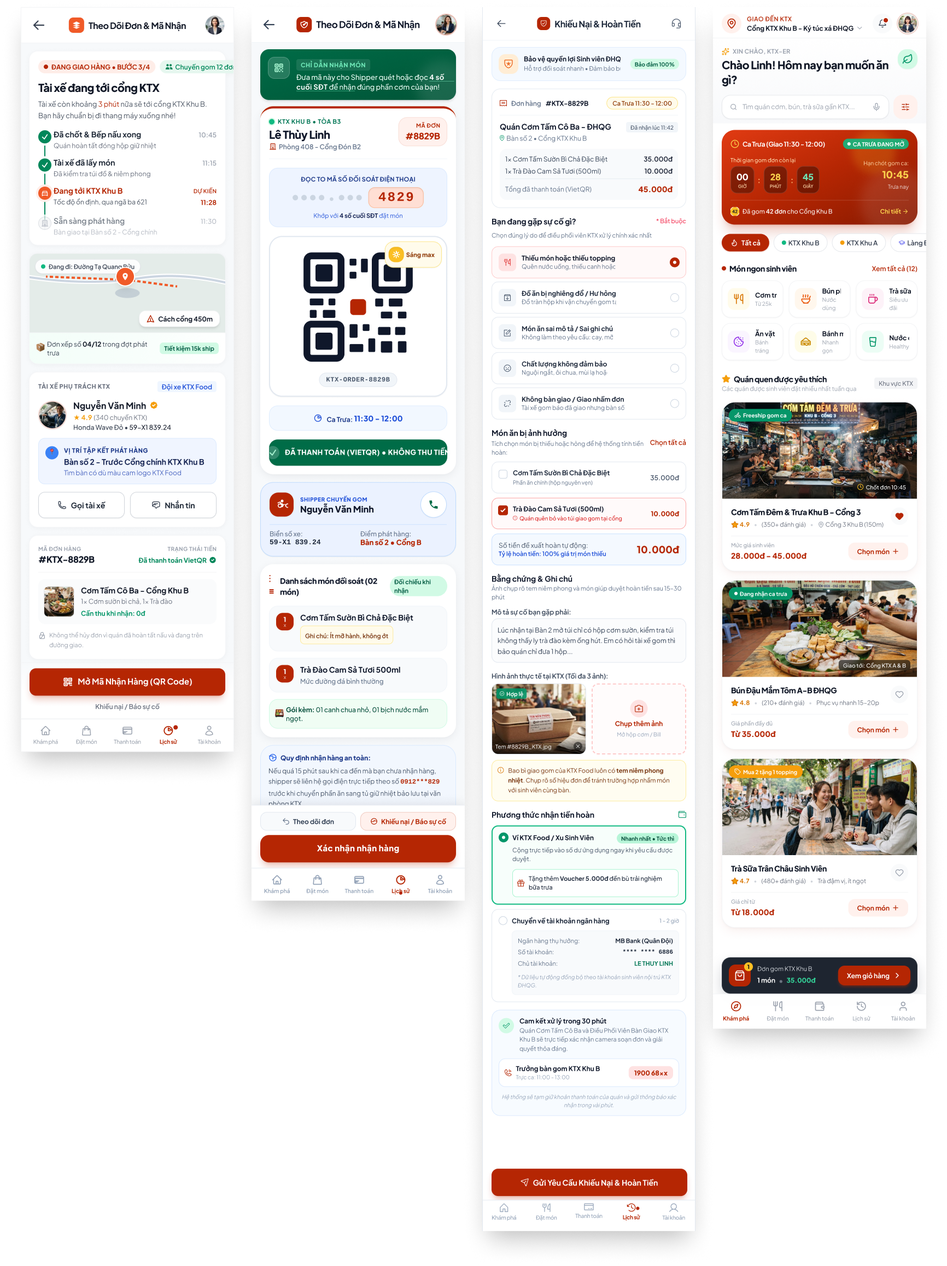
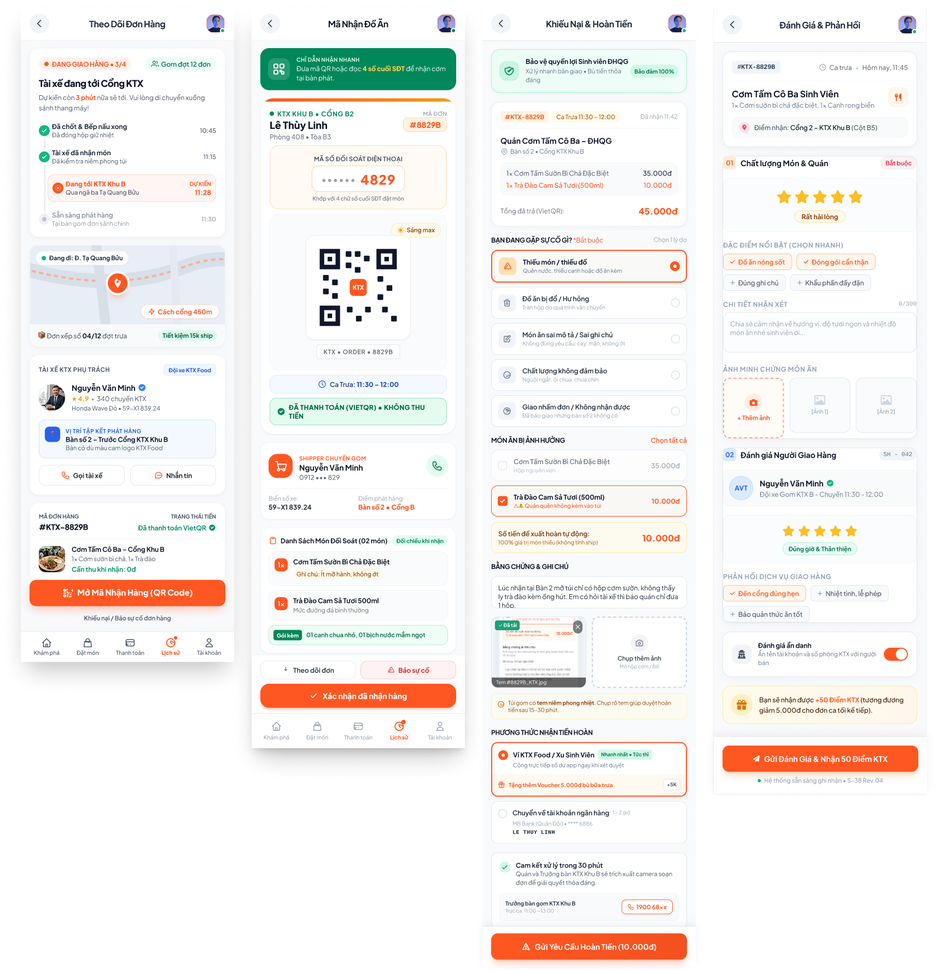
sửa final ui

diff --git a/ai/Vinh/ai-design-log.md b/ai/Vinh/ai-design-log.md
@@ -7,7 +7,7 @@
 > **Người thực hiện:** Thành viên 4 – Quách Ngọc Vinh (MSSV: SE194159)  
 > **Công cụ AI:** Google Stitch (sinh và tinh chỉnh màn hình) + Claude / ChatGPT (phản biện theo Heuristics & WCAG)  
 > **Hệ thống:** Giao nhận đồ ăn sinh viên tại Ký túc xá Khu B (KTX Food Delivery System)  
-> **Tiêu chuẩn áp dụng:** 10 Usability Heuristics của Jakob Nielsen, WCAG 2.1 (AA/AAA), Mobile Ergonomics (Thumb Zone), Design System chung của nhóm (`design1.png`, `design2.png`)  
+> **Tiêu chuẩn áp dụng:** 10 Usability Heuristics của Jakob Nielsen, WCAG 2.1 (AA/AAA), Mobile Ergonomics (Thumb Zone), Design System chung của nhóm  
 > **Thư mục ảnh minh chứng:** `assests/stitch/Vinh/`
 
 ---
@@ -16,8 +16,6 @@
 
 | Nhóm | Tên file | Nội dung thực tế trong ảnh |
 | :---: | :--- | :--- |
-| Design System | `design1.png` | Thang chữ (Typography): font Inter, 4 kiểu Heading 1 / Heading 2 / Body / Caption. |
-| Design System | `design2.png` | Bảng màu (Color Palette Tokens) và khoảng cách (Spacing Guide 8 / 16 / 24dp). |
 | Vòng 1 | `v1_before-1.png` | Bản gốc: sơ đồ User Flow đặt món & thanh toán + 5 màn (Trang chủ, Chi tiết quán, Tùy biến món, Thanh toán gom đơn, Chuyển khoản VietQR). |
 | Vòng 1 | `v1_after-1.png` | Bản chốt của 5 màn trên (màn 1 → 5). |
 | Vòng 1 | `v1_before-2.png` | Bản gốc: sơ đồ User Flow nhận hàng + 4 màn (Theo dõi đơn, Mã nhận QR, Khiếu nại & Hoàn tiền, quay về Trang chủ). |
@@ -35,7 +33,7 @@
 
 ## 0.1. QUY TẮC THIẾT KẾ CHUNG (DESIGN SYSTEM) ÁP DỤNG CHO CÁC BẢN CHỐT
 
-### Typography – font Inter (`design1.png`)
+### Typography – font Inter
 
 | Kiểu chữ | Độ đậm | Cỡ chữ | Chiều cao dòng | Dùng cho |
 | :--- | :--- | :---: | :---: | :--- |
@@ -46,7 +44,7 @@
 
 > Body 16px / dòng 24px, cao hơn ngưỡng tối thiểu 14sp để đọc tốt trên di động.
 
-### Color Palette Tokens (`design2.png`)
+### Color Palette Tokens
 
 | Token | Mã màu | Vai trò trong bản chốt |
 | :--- | :---: | :--- |
@@ -56,13 +54,21 @@
 | Text Secondary | `#757575` | Mô tả, chú thích, thông tin phụ |
 | Error Red | `#F44336` | Trạng thái lỗi, cảnh báo, nút khiếu nại |
 
-### Spacing Guide Blocks (`design2.png`)
+### Spacing Guide Blocks
 
 | Token | Giá trị | Dùng cho |
 | :--- | :---: | :--- |
 | Small | 8dp | Khoảng cách giữa icon và nhãn, giữa các chip |
 | Medium | 16dp | Lề trong của thẻ, khoảng cách giữa các nút cạnh nhau |
 | Large | 24dp | Khoảng cách giữa các khối nội dung lớn |
+
+### Header (App Bar) dùng chung
+
+| Loại màn | Cấu trúc header | Áp dụng cho |
+| :--- | :--- | :--- |
+| Màn duyệt món | Dòng "GIAO ĐẾN – Cổng KTX Khu B - ĐHQG", lời chào 1 dòng, ô tìm kiếm | Trang chủ, Chi tiết quán |
+| Màn chức năng | Nút quay lại hình tròn bên trái · tiêu đề căn giữa · avatar bên phải | Thanh toán gom đơn (kèm icon cửa hàng cạnh tiêu đề), Theo dõi đơn, Mã nhận, Khiếu nại, Đánh giá, Lịch sử, Empty / Error State |
+| Màn dạng modal | Nút quay lại bên trái · tiêu đề căn giữa · nút đóng "X" bên phải | Tùy biến món, Thanh toán online |
 
 ---
 
@@ -104,7 +110,7 @@ Vòng 1 được áp dụng trên 11 màn hình, chia thành 3 cặp ảnh theo 
 
 ## 1.3. Phản hồi của AI & Chi tiết tối ưu hóa 11 màn hình chuẩn
 
-> **Áp dụng chung cho cả 11 màn:** nút chính nền Primary Orange `#FF5722` chữ trắng, nút phụ dạng viền; tiêu đề `#111111`, chữ phụ `#757575`; font Inter theo thang 24 / 20 / 16 / 14px; lề thẻ 16dp.
+> **Áp dụng chung cho cả 11 màn:** nút chính nền Primary Orange `#FF5722` chữ trắng, nút phụ dạng viền; tiêu đề `#111111`, chữ phụ `#757575`; font Inter theo thang 24 / 20 / 16 / 14px; lề thẻ 16dp; header theo 3 mẫu dùng chung ở mục 0.1.
 
 ### Màn 1. Trang Chủ Đặt Món & Ca Gom KTX (Bản Chốt Chuẩn)
 
@@ -112,9 +118,10 @@ Vòng 1 được áp dụng trên 11 màn hình, chia thành 3 cặp ảnh theo 
 
 **Tối ưu nổi bật:**
 
+- **Header gọn:** "GIAO ĐẾN – Cổng KTX Khu B - ĐHQG" và lời chào rút còn 1 dòng "Chào Linh! Trưa nay ăn gì?".
 - **Thanh điều hướng & Giỏ hàng nổi:** Giữ trọn vẹn thanh Bottom Navigation 5 tab chuẩn (Khám phá, Đặt món, Thanh toán, Lịch sử, Tài khoản) cùng thanh giỏ hàng nổi "Đơn gom KTX Khu B • 1 món • 35.000đ" với nút "Xem giỏ hàng" màu Primary Orange #FF5722.
-- **Banner đếm ngược ca trưa:** Banner cam đếm ngược chốt đơn ca trưa lớn, rõ ràng (00:28:45), nhãn "CA TRƯA ĐANG MỞ" nổi bật.
-- **Xử lý Text Wrapping:** Khung chữ tiêu đề quán, khoảng cách (150m), tag freeship và khoảng giá (28.000đ - 45.000đ) dùng container co giãn tự nhiên (auto-width), loại bỏ lỗi rớt chữ cụt lủn.
+- **Banner đếm ngược ca trưa:** Banner cam "Ca Trưa (11:30 - 12:00) • ĐANG MỞ", đếm ngược 00:28:45, "Chốt lúc 10:45" và "Đã gom 42 đơn Khu B".
+- **Xử lý Text Wrapping:** Tên quán rút gọn ("Cơm Tấm Sườn Bì Khu B - Cổng 3", "Bún Đậu Mắm Tôm Cô Bông KTX", "Trà Sữa Đậm Vị KTX Khu B"), khoảng cách "Cổng 3 KTX (150m)" và khoảng giá (28.000đ - 45.000đ) nằm trọn 1 dòng.
 
 ### Màn 2. Chi Tiết Quán & Thực Đơn Cơm Tấm (Bản Chốt Chuẩn)
 
@@ -122,8 +129,9 @@ Vòng 1 được áp dụng trên 11 màn hình, chia thành 3 cặp ảnh theo 
 
 **Tối ưu nổi bật:**
 
-- **Header quán Cơm Tấm Cô Ba:** Đầy đủ thông tin định danh: tích xác thực, khoảng cách 600m, đánh giá 4.9 sao, thông báo "Bảng tin Cô Ba hôm nay" và đồng hồ đếm ngược chốt đơn 24:59.
-- **Phân loại tab súc tích:** Cấu trúc 3 tab tinh gọn: Món Bán Chạy 🔥 (tab đang chọn nền cam), Cơm Tấm, Món Thêm / Topping.
+- **Header đồng bộ với Trang chủ:** Giữ dòng "GIAO ĐẾN", lời chào và ô tìm kiếm để sinh viên không mất ngữ cảnh khi đi từ Trang chủ vào quán.
+- **Thông tin quán tinh gọn:** Ảnh bìa gắn nhãn "KTX Khu B (Cổng 2)" và "Cách 600m"; dưới là "Cơm Tấm Cô Ba" (tích xác thực), một hàng "★ 4.9 · Freeship · 11:30", khối đếm ngược "24:59 CHỐT ĐƠN" và "BẢNG TIN CÔ BA HÔM NAY – Tặng trà đá cho nhóm từ 3 phần".
+- **Thực đơn ít chữ:** Mỗi món chỉ giữ ảnh, tên và giá (bỏ đoạn mô tả dài); tab Món Bán Chạy / Cơm Tấm / Món Thêm cuộn ngang.
 - **Thanh ghim đáy (Sticky Bar):** Cố định hiển thị "Chốt đơn • 70.000đ" với vùng bấm đạt chuẩn $\ge 48\text{dp}$, phía dưới bổ sung lại Bottom Navigation (bản gốc không có).
 
 ### Màn 3. Tùy Biến Món Ăn (Bản Chốt Chuẩn)
@@ -132,7 +140,8 @@ Vòng 1 được áp dụng trên 11 màn hình, chia thành 3 cặp ảnh theo 
 
 **Tối ưu nổi bật:**
 
-- **Compact Vertical Layout:** Phân chia 5 khối logic gọn gàng (Kích cỡ / Phần ăn, Khẩu vị & Mỡ hành, Topping thêm, Độ cay & Nước mắm, Ghi chú), mỗi khối có vạch nhấn cam ở tiêu đề và nhãn "Bắt buộc" / "Tùy chọn".
+- **Header dạng modal:** Nút quay lại, tiêu đề "Tùy Biến Món Ăn" căn giữa và nút đóng "X".
+- **Compact Vertical Layout:** Phân chia 5 khối logic gọn gàng (Kích cỡ / Phần ăn, Khẩu vị & Mỡ hành, Topping thêm, Độ cay & Nước mắm, Ghi chú), mỗi khối có vạch nhấn cam ở tiêu đề và nhãn "Bắt buộc • Chọn 1" / "Tùy chọn • Tối đa 5".
 - **Nút CTA ghim đáy:** Kết hợp bộ đếm số lượng (- 1 +) cùng nút "Thêm vào giỏ • 46.000đ" nền #FF5722, chữ trắng in đậm trọn vẹn trên 1 dòng (bản gốc nhãn bị rớt thành 2 dòng).
 
 ### Màn 4. Thanh Toán Gom Đơn & Điểm Nhận KTX (Bản Chốt Chuẩn)
@@ -141,6 +150,7 @@ Vòng 1 được áp dụng trên 11 màn hình, chia thành 3 cặp ảnh theo 
 
 **Tối ưu nổi bật:**
 
+- **Header & nhắc giờ chốt:** Header chức năng "Thanh Toán Gom Đơn", ngay dưới là dải "Đợt gom Ca Trưa sắp đóng – 10:45".
 - **Cấu trúc 6 bước mạch lạc:** Điểm nhận cố định tại Cổng Khu B, Khung giờ ca trưa, Tóm tắt món, Mã giảm giá SINHVIENKTX, Phương thức VietQR và Bảng chi tiết thanh toán; mỗi bước đánh số trong ô cam.
 - **Nút CTA chính ghim đáy:** "Đặt đơn nhận tại Cổng KTX Khu B (45.000đ)" cao 52dp, nền #FF5722.
 
@@ -150,6 +160,7 @@ Vòng 1 được áp dụng trên 11 màn hình, chia thành 3 cặp ảnh theo 
 
 **Tối ưu nổi bật:**
 
+- **Header dạng modal & giữ chỗ:** Tiêu đề "Thanh toán online" có nút đóng "X"; thẻ "GIỮ CHỖ ĐƠN GOM CA TRƯA" đếm ngược 09:57.
 - **Khối mã VietQR Napas247:** Khung QR tương phản cao kèm 2 nút phụ dạng viền "Lưu ảnh QR" và "Mở App Bank", vùng chạm $\ge 48\times 48\text{dp}$, cách nhau $16\text{dp}$ chống bấm nhầm khi đi bộ.
 - **Khối thông tin chuyển khoản:** 3 nút "Sao chép" 1 chạm độc lập (STK, Số tiền 45.000 đ, Nội dung bắt buộc KTX8829B LE THUY LINH), thay cho các nhãn "content_copy" bị lỗi hiển thị ở bản gốc.
 - **Nút hành động chính ghim đáy:** "Tôi đã hoàn tất chuyển khoản" nền #FF5722.
@@ -160,21 +171,23 @@ Vòng 1 được áp dụng trên 11 màn hình, chia thành 3 cặp ảnh theo 
 
 **Tối ưu nổi bật:**
 
-- **Tiến trình giao hàng 4 bước:** Đã chốt & Bếp nấu xong $\rightarrow$ Tài xế đã lấy món $\rightarrow$ Đang tới KTX Khu B (bước hiện tại tô cam) $\rightarrow$ Sẵn sàng phát hàng, cùng thông tin tài xế Nguyễn Văn Minh (Honda Wave Đỏ • 59-X1 839.24) hiển thị thẳng hàng, không bị ngắt dòng.
-- **Nút CTA ghim đáy:** "Mở Mã Nhận Hàng (QR Code)" nền #FF5722, cao 50dp ($\ge 48\text{dp}$), chữ nằm trọn 1 dòng.
+- **Header chức năng:** Tiêu đề "Theo Dõi Đơn Hàng" căn giữa; thẻ đầu "ĐANG GIAO HÀNG • 3/4 – Gom đợt 12 đơn – Tài xế đang tới Cổng KTX".
+- **Tiến trình giao hàng 4 bước:** Đã chốt & Bếp nấu xong $\rightarrow$ Tài xế đã nhận món $\rightarrow$ Đang tới KTX Khu B (bước hiện tại tô cam, dự kiến 11:28) $\rightarrow$ Sẵn sàng phát hàng, cùng thông tin tài xế Nguyễn Văn Minh (Honda Wave Đỏ • 59-X1 839.24) hiển thị thẳng hàng, không bị ngắt dòng.
+- **Nút CTA ghim đáy:** "Mở Mã Nhận Hàng (QR Code)" nền #FF5722, cao 50dp ($\ge 48\text{dp}$), chữ nằm trọn 1 dòng; bên dưới là liên kết phụ "Khiếu nại / Báo sự cố đơn hàng".
 - **Khôi phục Bottom Navigation:** Bổ sung thanh điều hướng 5 tab với chấm cam active tại tab Lịch sử (bản gốc không có thanh điều hướng).
-- **Bố cục súc tích:** Mini map "Đang đi: Đường Tạ Quang Bửu – Cách cổng 450m" kèm nhãn "Đơn xếp số 04/12 trong đợt phát trưa".
+- **Bố cục súc tích:** Mini map rút gọn nhãn còn "Đang đi: Đ. Tạ Quang Bửu – Cách cổng 450m", kèm "Đơn xếp số 04/12 đợt trưa" và "Tiết kiệm 15k ship".
 
-### Màn 7. Mã Nhận Hàng & QR Đối Soát Cổng KTX (Bản Chốt Chuẩn)
+### Màn 7. Mã Nhận Đồ Ăn & QR Đối Soát Cổng KTX (Bản Chốt Chuẩn)
 
 **Đối chiếu ảnh:** Cặp 2 – màn thứ hai (`v1_before-2.png` → `v1_after-2.png`).
 
 **Tối ưu nổi bật:**
 
-- **Khối Mã QR & Phím Sáng Max:** Bản gốc đặt nút "Tăng độ sáng" thành một thanh ngang cạnh nút "Theo dõi đơn" ngay dưới QR; bản chốt tinh giản thành nút quick-action "Sáng max" ở góc trên bên phải khung QR.
-- **Mã 4 số đối soát:** Số 4829 đặt trong ô viền cam nổi bật để đọc to cho shipper.
-- **Banner chống thu nhầm tiền:** Dải xanh lá đậm "ĐÃ THANH TOÁN (VIETQR) • KHÔNG THU TIỀN" ngay dưới mã QR.
-- **Nút hành động ghim đáy:** Nút phụ dạng viền "Theo dõi đơn" / "Khiếu nại / Báo sự cố" phía trên nút chính "Xác nhận nhận hàng" nền #FF5722, phía dưới là Bottom Navigation.
+- **Header chức năng:** Tiêu đề rút gọn "Mã Nhận Đồ Ăn"; dải xanh "CHỈ DẪN NHẬN NHANH" nhắc đưa mã QR hoặc đọc 4 số cuối SĐT.
+- **Khối Mã QR & Phím Sáng Max:** Bản gốc đặt nút "Tăng độ sáng" thành một thanh ngang cạnh nút "Theo dõi đơn" ngay dưới QR; bản chốt tinh giản thành nút quick-action "Sáng max" ở góc trên bên phải khung QR. Mã định danh rút còn "KTX • ORDER • 8829B".
+- **Mã 4 số đối soát:** Dãy số ẩn "••••••" kèm 4829 trong ô viền cam nổi bật để đọc to cho shipper.
+- **Banner chống thu nhầm tiền:** Dải xanh lá "ĐÃ THANH TOÁN (VIETQR) • KHÔNG THU TIỀN" ngay dưới mã QR.
+- **Nút hành động ghim đáy:** Nút phụ dạng viền "Theo dõi đơn" / "Báo sự cố" (rút gọn từ "Khiếu nại / Báo sự cố") phía trên nút chính "Xác nhận đã nhận hàng" nền #FF5722, phía dưới là Bottom Navigation.
 
 ### Màn 8. Khiếu Nại & Hoàn Tiền Nhanh KTX (Bản Chốt Chuẩn)
 
@@ -182,10 +195,11 @@ Vòng 1 được áp dụng trên 11 màn hình, chia thành 3 cặp ảnh theo 
 
 **Tối ưu nổi bật:**
 
-- **Compact Vertical Layout:** Gom 5 nhóm sự cố thành các thẻ radio súc tích, thẻ đang chọn viền cam; món bị ảnh hưởng tick sẵn "Trà Đào Cam Sả Tươi (500ml) – 10.000đ" kèm tỷ lệ hoàn 100%.
+- **Compact Vertical Layout:** Gom 5 nhóm sự cố thành các thẻ radio súc tích với nhãn ngắn ("Thiếu món / thiếu đồ", "Đồ ăn bị đổ / Hư hỏng", "Món ăn sai mô tả / Sai ghi chú", "Chất lượng không đảm bảo", "Giao nhầm đơn / Không nhận được"), thẻ đang chọn viền cam; món bị ảnh hưởng tick sẵn "Trà Đào Cam Sả Tươi (500ml) – 10.000đ" kèm tỷ lệ hoàn 100%.
+- **Tiêu đề khối viết hoa:** "BẠN ĐANG GẶP SỰ CỐ GÌ?", "MÓN ĂN BỊ ẢNH HƯỞNG", "BẰNG CHỨNG & GHI CHÚ", "PHƯƠNG THỨC NHẬN TIỀN HOÀN" giúp quét nhanh các bước của biểu mẫu.
 - **Gom gọn khu vực bằng chứng:** Ảnh tem niêm phong (Tem #8829B_KTX.jpg) và ô "Chụp thêm ảnh" xếp hàng ngang dạng thumbnail, giảm số lần vuốt màn hình.
-- **Phương thức hoàn tiền:** Ưu tiên Ví KTX Food / Xu Sinh Viên (nhận tức thì + voucher 5.000đ) và tùy chọn chuyển khoản MB Bank.
-- **Nút CTA chính ghim đáy:** "Gửi Yêu Cầu Khiếu Nại & Hoàn Tiền" nền #FF5722 ở vùng ngón cái, bên dưới bổ sung Bottom Navigation.
+- **Phương thức hoàn tiền:** Ưu tiên Ví KTX Food / Xu Sinh Viên (nhận tức thì + voucher 5.000đ bù bữa trưa) và tùy chọn chuyển khoản MB Bank.
+- **Nút CTA chính ghim đáy:** Rút gọn thành "Gửi Yêu Cầu Hoàn Tiền (10.000đ)" kèm số tiền hoàn, nền #FF5722 ở vùng ngón cái. Màn biểu mẫu này ẩn Bottom Navigation để sinh viên tập trung hoàn thành yêu cầu.
 
 ### Màn 9. Đánh Giá & Phản Hồi Sau Nhận Hàng (Màn mới – Bản Chốt Chuẩn)
 
@@ -193,10 +207,11 @@ Vòng 1 được áp dụng trên 11 màn hình, chia thành 3 cặp ảnh theo 
 
 **Tối ưu nổi bật:**
 
-- **Hai khối đánh giá tách bạch:** "01 Chất lượng Món & Quán" (5 sao – "Rất hài lòng", nhãn "Bắt buộc") và "02 Đánh giá Người Giao Hàng" (shipper Nguyễn Văn Minh, 5 sao – "Đúng giờ & Thân thiện").
-- **Chip chọn nhanh thay cho gõ phím:** "Đồ ăn nóng sốt", "Đóng gói cẩn thận", "Đúng ghi chú", "Khẩu phần đầy đặn" cho món; "Đến cổng đúng hẹn", "Nhiệt tình, lễ phép", "Bảo quản túi ăn tốt" cho shipper. Chip đang chọn viền cam.
-- **Ảnh minh chứng & ẩn danh:** Ô "+ Thêm ảnh" cho ảnh món ăn và công tắc "Đánh giá ẩn danh".
-- **Động lực hoàn thành:** Thẻ thưởng "+50 Điểm KTX (tương đương 5.000đ cho đơn ca tới)" và nút chính ghim đáy "Gửi Đánh Giá & Nhận 50 Điểm KTX" nền #FF5722.
+- **Thẻ tóm tắt đơn:** "#KTX-8829B • Ca trưa • Hôm nay, 11:45", "Cơm Tấm Cô Ba Sinh Viên" và "Điểm nhận: Cổng 2 – KTX Khu B (Cột B5)".
+- **Hai khối đánh giá tách bạch:** "01 Chất lượng Món & Quán" (5 sao – "Rất hài lòng", nhãn "Bắt buộc") và "02 Đánh giá Người Giao Hàng" (shipper Nguyễn Văn Minh, "Đội xe Gom KTX B • Chuyến 11:30 - 12:00", 5 sao – "Đúng giờ & Thân thiện").
+- **Chip chọn nhanh thay cho gõ phím:** "Đồ ăn nóng sốt", "Đóng gói cẩn thận", "Đúng ghi chú", "Khẩu phần đầy đặn" cho món; "Đến cổng đúng hẹn", "Nhiệt tình, lễ phép", "Bảo quản thức ăn tốt" cho shipper. Chip đang chọn viền cam.
+- **Ảnh minh chứng & ẩn danh:** Ô "+ Thêm ảnh" cùng 2 ô ảnh trống, ô nhận xét giới hạn 0/300 ký tự và công tắc "Đánh giá ẩn danh".
+- **Động lực hoàn thành:** Thẻ thưởng "+50 Điểm KTX (tương đương giảm 5.000đ cho đơn ca tối kế tiếp)" và nút chính ghim đáy "Gửi Đánh Giá & Nhận 50 Điểm KTX" nền #FF5722. Giống màn Khiếu nại, màn biểu mẫu này ẩn Bottom Navigation.
 
 ### Màn 10. Lịch Sử Đơn Hàng KTX (Bản Chốt Chuẩn)
 
@@ -204,6 +219,7 @@ Vòng 1 được áp dụng trên 11 màn hình, chia thành 3 cặp ảnh theo 
 
 **Tối ưu nổi bật:**
 
+- **Header chức năng gọn:** Tiêu đề "Lịch Sử Đơn Hàng" căn giữa, bỏ dòng phụ đề dưới header; ngay dưới là ô tìm kiếm mã đơn, thẻ tổng kết "GOM ĐƠN ĐHQG • THÁNG 10 – Đã gom 14 đơn • Tiết kiệm 168.000đ" và tab "Tất cả 18 / Đang diễn ra 1 / Hoàn tất 15".
 - **Khắc phục lỗi ngắt dòng:** Tên các món (Cơm Tấm Cô Ba – ĐHQG, Bún Đậu Mắm Tôm A-B ĐHQG, Trà Sữa Sinh Viên & Trà Đào, Bánh Mì Chảo KTX) và mã đơn (#KTX-8829B, #KTX-8512A, #KTX-7994B, #KTX-7420A) nằm trọn trên container tự co giãn.
 - **Đơn hàng đang giao nổi bật:** Card đơn đang giao đặt trên đầu với banner "Shipper đang tới cổng KTX ~3 phút", 2 nút phụ "Theo dõi trực tiếp" và "Mã QR Nhận Hàng" đạt $\ge 48\text{dp}$.
 - **Nút CTA chính ghim đáy:** "Mã QR Nhận Hàng" nền #FF5722 giúp sinh viên đang đi bộ ra cổng mở mã chỉ bằng 1 chạm (bản gốc chưa có nút này).
@@ -215,19 +231,21 @@ Vòng 1 được áp dụng trên 11 màn hình, chia thành 3 cặp ảnh theo 
 
 **Tối ưu nổi bật:**
 
+- **Header chức năng có ngữ cảnh:** Tiêu đề "Khiếu Nại & Hoàn Tiền" kèm dòng phụ "Bàn giao gom • Cổng KTX Khu B" và nút gọi nhanh bên phải.
 - **Compact Vertical Layout:** Gom lý do sự cố và danh sách món ảnh hưởng thành các thẻ súc tích; tự tính số tiền hoàn 100%.
 - **Gom gọn bằng chứng ảnh:** Ảnh tem niêm phong (Tem #8829B_KTX.jpg) và ô chụp thêm ảnh xếp hàng ngang dạng thumbnail.
 - **Phương thức hoàn tiền:** Ví KTX Food / Xu Sinh Viên lên đầu kèm voucher 5.000đ, hoặc chuyển khoản MB Bank.
-- **Nút CTA chính ghim đáy:** "Gửi Yêu Cầu Khiếu Nại & Hoàn Tiền" nền #FF5722, cao 52dp, chữ nằm trọn 1 dòng.
+- **Nút CTA chính ghim đáy:** "Gửi Yêu Cầu Khiếu Nại & Hoàn Tiền" nền #FF5722, cao 52dp, chữ nằm trọn 1 dòng, bên dưới là Bottom Navigation.
 
 ## 1.4. Bảng tóm tắt so sánh kỹ thuật (Before vs. AI Draft vs. Final Resolved)
 
 | Thành phần UI | Bản Cũ (Before) | Bản Mới (AI Draft) | Bản Chốt Chuẩn (Final Resolved) | Lý do Kỹ thuật & Trợ năng (Accessibility) |
 |---|---|---|---|---|
 | Ngắt dòng tiếng Việt (Text Wrapping) | Rớt 1–2 chữ cụt lủn ở tên món, mã đơn #8829B và nhãn nút bấm. | Container bị co ép chiều ngang ở một số khu vực. | Text container dùng auto-width; nhãn nút bấm nằm trọn 1 dòng. | Loại bỏ typographic orphans; tối ưu khả năng quét nhanh (scannability) khi sinh viên đang di chuyển. |
-| Màu thương hiệu & phân cấp chữ | Đỏ sậm, cỡ chữ chưa thống nhất giữa các màn. | Giữ màu cũ, tăng cỡ chữ tùy ý theo từng màn. | Primary Orange #FF5722; font Inter theo thang 24 / 20 / 16 / 14px; chữ #111111 / #757575. | Đồng bộ với Design System chung của nhóm (`design1.png`, `design2.png`), giữ nhất quán giữa các thành viên (Heuristic #4). |
-| Nút CTA Chính & Vùng ngón tay cái | Nằm inline cuộn theo trang, khó chạm khi cầm máy 1 tay. | Ghim đáy nhưng chiếm trọn đáy, che mất navigation. | Ghim đáy (Sticky Bar) cao $\ge 50\text{dp}$, nền #FF5722, chữ trắng in đậm. | Đạt Touch Target Material Design ($\ge 48\times 48\text{dp}$); nền nút đạt $\ge 3:1$ so với nền trắng (WCAG 1.4.11). Xem mục 4 về tương phản chữ. |
-| Thanh Bottom Navigation | Chỉ có ở Trang chủ; các màn Chi tiết quán, Theo dõi đơn, Khiếu nại không có. | Bị loại bỏ hoàn toàn làm đứt gãy luồng chuyển trang. | Đồng bộ Bottom Navigation 5 tab ở đáy toàn bộ 11 màn, tab active tô cam. | Giữ vững kiến trúc thông tin (IA), cho phép sinh viên chuyển tab tức thì. |
+| Màu thương hiệu & phân cấp chữ | Đỏ sậm, cỡ chữ chưa thống nhất giữa các màn. | Giữ màu cũ, tăng cỡ chữ tùy ý theo từng màn. | Primary Orange #FF5722; font Inter theo thang 24 / 20 / 16 / 14px; chữ #111111 / #757575. | Đồng bộ với Design System chung của nhóm (mục 0.1), giữ nhất quán giữa các thành viên (Heuristic #4). |
+| Header (App Bar) | Mỗi màn một kiểu: header thương hiệu, header kèm phụ đề, header trái. | Giữ header riêng theo từng màn. | 3 mẫu header dùng chung (màn duyệt món, màn chức năng, màn modal) như mục 0.1. | Heuristic #4: sinh viên luôn thấy nút quay lại và tiêu đề ở cùng vị trí trên mọi màn. |
+| Nút CTA Chính & Vùng ngón tay cái | Nằm inline cuộn theo trang, khó chạm khi cầm máy 1 tay. | Ghim đáy nhưng chiếm trọn đáy, che mất navigation. | Ghim đáy (Sticky Bar) cao $\ge 50\text{dp}$, nền #FF5722, chữ trắng in đậm. | Đạt Touch Target Material Design ($\ge 48\times 48\text{dp}$); nền nút đạt $\ge 3:1$ so với nền trắng (WCAG 1.4.11). Xem mục 5 về tương phản chữ. |
+| Thanh Bottom Navigation | Chỉ có ở Trang chủ; các màn Chi tiết quán, Theo dõi đơn, Khiếu nại không có. | Bị loại bỏ hoàn toàn làm đứt gãy luồng chuyển trang. | Bottom Navigation 5 tab ở đáy 9/11 màn, tab active tô cam; 2 màn biểu mẫu (Khiếu nại trong luồng nhận hàng, Đánh giá) thay bằng nút gửi ghim đáy. | Giữ vững kiến trúc thông tin (IA), cho phép sinh viên chuyển tab tức thì; riêng màn biểu mẫu ưu tiên hoàn thành thao tác. |
 | Khoảng cách cuộn trang (Compact Layout) | Rời rạc, thiếu nhịp đệm thị giác. | Bị kéo giãn padding quá mức (> 2400px), cuộn mỏi tay. | Tối ưu Vertical Rhythm theo bước 8 / 16 / 24dp, gom nhóm tùy chọn và thông tin đối soát. | Giảm scroll fatigue, đưa thông tin quan trọng vào màn hình đầu tiên (Above the fold). |
 | Khối Mã QR & Phím Sáng màn hình | Phím "Tăng độ sáng" chiếm 1 thanh ngang cồng kềnh dưới QR (`v1_before-2.png`). | Dàn nút viền mỏng chiếm diện tích phía dưới QR. | Nút quick-action "Sáng max" ở góc QR (`v1_after-2.png`). | Thao tác 1 chạm bật sáng nhanh dưới trời nắng gắt, tiết kiệm không gian thẳng đứng. |
 | Vùng chạm nút phụ (Secondary Action) | Các nút nhỏ đặt sát nhau dễ bấm nhầm ($< 36\text{dp}$). | Dàn nút viền mỏng chiếm diện tích. | Nút phụ dạng viền, cách nhau $16\text{dp}$, touch target $\ge 48\times 48\text{dp}$. | Tránh bấm trượt hoặc bấm nhầm khi sinh viên đang đi bộ ra bàn giao cơm. |
@@ -289,7 +307,7 @@ Trạng thái thông báo lỗi (Error State):
 - Cung cấp bảng tóm tắt: [Trạng thái | Thành phần trực quan | Nội dung thông điệp | Nút hành động CTA | Lý do kỹ thuật / UX].
 ```
 
-> Prompt trên được nhập khi nhóm chưa chốt Design System nên còn ghi màu #B52603 và #64748B. Bản chốt `v2_after.png` đã được đồng bộ lại theo token chung: nút #FF5722 / #E64A19, tiêu đề #111111, mô tả #757575.
+> Prompt trên được nhập khi nhóm chưa chốt Design System nên còn ghi màu #B52603 và #64748B. Bản chốt `v2_after.png` đã được đồng bộ lại theo token chung: nút #FF5722, tiêu đề #111111, mô tả #757575.
 
 ## 2.2. Lưu trữ hình ảnh đối chiếu Vòng 2
 
@@ -313,13 +331,13 @@ Trạng thái thông báo lỗi (Error State):
 
 **Điểm nổi bật UI & Công thái học:**
 
-- **Giữ vững Khung ứng dụng:** Header "KTX KHU B – Lịch sử đơn hàng" với icon thương hiệu nền cam, chip điểm nhận "KTX Khu B (Cổng 2)", bộ lọc "Tất cả (0)" (đang chọn, nền cam) / "Đang diễn ra (0)" / "Hoàn tất (0)" và thanh Bottom Navigation 5 tab (Lịch sử active màu cam).
+- **Giữ vững Khung ứng dụng:** Header chức năng "Lịch Sử Đơn Hàng" (nút quay lại, tiêu đề căn giữa, avatar) giống màn Lịch sử có đơn, chip điểm nhận "KTX Khu B (Cổng 2)" kèm trạng thái "Ca gom đang mở", bộ lọc dạng segmented "Tất cả (0)" (đang chọn, nền cam) / "Đang diễn ra (0)" / "Hoàn tất (0)" nằm trọn 1 dòng và thanh Bottom Navigation 5 tab (Lịch sử active màu cam).
 - **Minh họa trung tâm (Illustration):** Hộp cơm giữ nhiệt rỗng tone cam – trắng, đồng bộ màu Primary Orange.
 - **Nội dung thông điệp:**
   - Tiêu đề: "Chưa có đơn hàng nào cần nhận" (Heading 2, màu Text Primary #111111).
   - Mô tả: "Bạn không có đơn giao đến cổng KTX trong khung giờ này. Đặt món ngay để kịp chốt đơn nhé!" (màu Text Secondary #757575, không rớt chữ cụt lủn).
 - **Nút CTA chính:** "Khám phá quán ngon / Đặt món ngay" nền cam, chữ trắng in đậm, chiều cao 50dp ($\ge 48\text{dp}$), bo góc 12px.
-- **Widget hỗ trợ chuyển đổi:** Thẻ "Gợi ý ca gom hôm nay" hiển thị Ca Trưa (11:30 – 12:00) đang mở nhận đơn, chốt lúc 10:45, thanh tiến độ cam "Đã gom: 24/30 suất", tag "Freeship Cổng 2", "+21 bạn cùng tòa B3" và liên kết "Xem 18 quán ngon" giúp sinh viên chuyển tiếp ngay sang hành vi đặt món.
+- **Widget hỗ trợ chuyển đổi:** Thẻ "Gợi ý ca gom hôm nay" hiển thị Ca Trưa (11:30 – 12:00), dòng "Đang nhận đơn, chốt lúc 10:45 • Đã gom: 24/30 suất" gọn trên 1 dòng, thanh tiến độ cam, tag "Freeship Cổng 2", "+21 bạn cùng tòa B3" và liên kết "Xem 18 quán ngon" giúp sinh viên chuyển tiếp ngay sang hành vi đặt món.
 
 ### 2.3.2. Trạng Thái Thông Báo Lỗi (Error State)
 
@@ -329,13 +347,14 @@ Trạng thái thông báo lỗi (Error State):
 
 **Điểm nổi bật UI & Công thái học:**
 
-- **Banner cảnh báo đỉnh:** Dải nền đỏ nhạt #FCE8E6, chữ đỏ #D32F2F "Mất kết nối mạng • Dữ liệu chưa cập nhật" với biểu tượng WiFi bị gạch.
+- **Header đồng bộ:** Dùng chung header "Lịch Sử Đơn Hàng" với màn Empty State, để sinh viên hiểu lỗi xảy ra ngay trong tab Lịch sử.
+- **Banner cảnh báo đỉnh:** Dải nền hồng nhạt #FFF1F2, chữ đỏ #E11D48 "Mất kết nối mạng • Dữ liệu chưa cập nhật" với biểu tượng WiFi bị gạch.
 - **Minh họa lỗi (Illustration):** Biểu tượng mất tín hiệu mạng kèm nhãn "Bàn Gom Khu B" và dấu chấm than đỏ.
 - **Nội dung thông điệp:**
   - Tiêu đề lỗi: "Mất kết nối máy chủ" (Heading 2, #111111).
   - Mô tả: "Không thể đồng bộ dữ liệu đơn hàng. Vui lòng kiểm tra lại kết nối WiFi/4G hoặc thử lại." (màu xám trung tính).
 - **Cụm nút hành động kép (Action Cluster):**
-  - Nút chính: "Thử lại kết nối" nền cam đậm #E64A19, chữ trắng in đậm kèm icon làm mới (cao 50dp).
+  - Nút chính: "Thử lại kết nối" nền Primary Orange #FF5722, chữ trắng in đậm kèm icon làm mới (cao 50dp).
   - Nút phụ: "Xem cách nhận hàng offline" dạng viền, nền trắng.
 - **Phương án cứu sinh (Safety Net / Graceful Degradation):** Thẻ "Cần nhận cơm gấp tại cổng KTX?" hướng dẫn "Đọc trực tiếp **4 số cuối SĐT** (chữ cam) cho Điều phối viên trực Bàn gom" kèm nút 1 chạm "Gọi Trực Bàn Gom KTX – 1900 6899 (Miễn cước sinh viên)".
 
@@ -344,7 +363,7 @@ Trạng thái thông báo lỗi (Error State):
 | Trạng thái | Thành phần trực quan | Nội dung thông điệp | Nút hành động CTA | Lý do kỹ thuật / UX |
 |---|---|---|---|---|
 | Trạng thái trống (Empty State) | Hình minh họa hộp cơm giữ nhiệt rỗng tone cam, chip lọc trạng thái (0) | • "Chưa có đơn hàng nào cần nhận"<br>• "Bạn không có đơn giao đến cổng KTX trong khung giờ này. Đặt món ngay để kịp chốt đơn nhé!" | • Chính: Khám phá quán ngon / Đặt món ngay (nền cam, cao $\ge 48\text{dp}$)<br>• Phụ: Card gợi ý ca gom đang mở chốt lúc 10:45 | • Tránh màn hình trắng trơn gây hoang mang.<br>• Biến trạng thái trống thành cơ hội kích cầu (conversion trigger) dẫn dắt sinh viên đặt món trước giờ chốt ca. |
-| Trạng thái lỗi (Error State) | Icon mất kết nối WiFi/Server nền tròn pastel, banner cảnh báo đỉnh nền đỏ nhạt | • "Mất kết nối máy chủ"<br>• "Không thể đồng bộ dữ liệu đơn hàng. Vui lòng kiểm tra lại kết nối WiFi/4G hoặc thử lại." | • Chính: Thử lại kết nối (nền #E64A19, cao $\ge 48\text{dp}$)<br>• Phụ: Xem cách nhận hàng offline + Nút gọi Bàn Gom trực tiếp | • Giảm cảm giác ức chế (anxiety) khi đang đứng đợi cơm ở cổng KTX mà mất sóng.<br>• Cung cấp lối thoát thực tế (đọc 4 số cuối SĐT / gọi hotline) theo nguyên lý Graceful Degradation. |
+| Trạng thái lỗi (Error State) | Icon mất kết nối WiFi/Server nền tròn pastel, banner cảnh báo đỉnh nền đỏ nhạt | • "Mất kết nối máy chủ"<br>• "Không thể đồng bộ dữ liệu đơn hàng. Vui lòng kiểm tra lại kết nối WiFi/4G hoặc thử lại." | • Chính: Thử lại kết nối (nền #FF5722, cao $\ge 48\text{dp}$)<br>• Phụ: Xem cách nhận hàng offline + Nút gọi Bàn Gom trực tiếp | • Giảm cảm giác ức chế (anxiety) khi đang đứng đợi cơm ở cổng KTX mà mất sóng.<br>• Cung cấp lối thoát thực tế (đọc 4 số cuối SĐT / gọi hotline) theo nguyên lý Graceful Degradation. |
 
 ## 2.5. Đánh giá phản biện AI (AI Critique - 5 Phát hiện cụ thể)
 
@@ -365,7 +384,7 @@ Trạng thái thông báo lỗi (Error State):
 - **Đối với Phát hiện 4 (Nghẽn mạng giờ cao điểm tại KTX): [Tinh chỉnh]**
   Lý do kỹ thuật: Đề xuất lưu cục bộ (Local Storage / Cache) mã đơn #8829B và 4 số cuối SĐT ngay khi đặt hàng thành công. Khi rơi vào Error State, hệ thống vẫn hiển thị được các thông tin cơ bản này để đối soát mà không cần tải lại toàn bộ trang.
 - **Đối với Phát hiện 5 (Độ tương phản và phân cấp màu sắc): [Chấp nhận]**
-  Lý do kỹ thuật: Tiêu đề dùng Text Primary #111111 (tương phản khoảng 18.9:1 trên nền trắng), mô tả dùng Text Secondary #757575 (khoảng 4.6:1, đạt AA). Banner lỗi dùng chữ đỏ #D32F2F trên nền đỏ nhạt #FCE8E6, đo được khoảng 4.2:1, **chưa đạt 4.5:1** cho chữ thường; điểm này được ghi lại để xử lý ở mục 4.
+  Lý do kỹ thuật: Tiêu đề dùng Text Primary #111111 (tương phản khoảng 18.9:1 trên nền trắng), mô tả dùng Text Secondary #757575 (khoảng 4.6:1, đạt AA). Banner lỗi dùng chữ đỏ #E11D48 trên nền hồng nhạt #FFF1F2, đo được khoảng 4.3:1, **chưa đạt 4.5:1** cho chữ thường; điểm này được ghi lại để xử lý ở mục 5.
 
 ---
 
@@ -413,6 +432,7 @@ Nút hành động chính (Primary Action CTA):
 
 ### 3.3.1. Chuẩn hóa Touch Target tối thiểu $48\times 48\text{dp}$
 
+- **Header chức năng:** Nút quay lại hình tròn $48\times 48\text{dp}$, tiêu đề "Theo Dõi Đơn & Mã Nhận" căn giữa, avatar bên phải, cùng mẫu với các màn chức năng ở Vòng 1.
 - **Nút Back & Nút Gọi Shipper:** Các icon vector ($20–24\text{dp}$) được bọc trong vùng chứa tương tác tối thiểu $48\times 48\text{dp}$ (`w-12 h-12 flex items-center justify-center`); nút gọi shipper là nút tròn viền nhạt, icon điện thoại xanh lá.
 - **Phím tiện ích "Sáng max":** Ở `v3_before.png` chỉ là nhãn nhỏ nền vàng đè lên góc khung QR; ở `v3_after.png` được phóng to thành nút quick-action nền cam #FF5722 chữ trắng có icon mặt trời, cho phép sinh viên kích hoạt nhanh bằng một chạm ngón cái khi đứng nhận cơm dưới trời nắng gắt.
 - **Cụm nút phụ ("Theo dõi đơn" & "Khiếu nại / Báo sự cố"):** Chiều cao nâng lên $48\text{dp}$, cùng dạng viền; nút "Khiếu nại / Báo sự cố" dùng viền và icon cảnh báo tông đỏ để phân biệt với hành động trung tính "Theo dõi đơn".
@@ -421,6 +441,7 @@ Nút hành động chính (Primary Action CTA):
 
 - **Kích thước khung QR:** Khung chứa đạt $200\times 200\text{dp}$ với vùng đệm an toàn (Quiet Zone) $20\text{dp}$ xung quanh mã (viền nét đứt), giúp camera shipper bắt nét nhanh.
 - **Tương phản quang học tuyệt đối:** Mã QR đen #000000 trên nền trắng #FFFFFF đạt tỷ lệ tương phản $21:1$; ô giữa mã giữ điểm nhấn cam thương hiệu.
+- **Banner thanh toán 1 dòng:** "ĐÃ THANH TOÁN (VIETQR) • KHÔNG THU TIỀN" nằm trọn 1 dòng (bản trước bị cắt chữ "TIỀN" ở mép phải).
 - **Mã đối soát PIN 4 số lớn:** Dãy "4 8 2 9" tách từng chữ số, cỡ Bold $26\text{sp}$, chữ cam #FF5722 trong khung viền cam trên nền trắng, giúp sinh viên đọc to hoặc shipper nhập tay khi camera mờ/trời tối.
 - **Mã định danh đơn:** Nhãn "KTX - ORDER - 8829B" dưới QR được giãn ký tự để đọc lướt nhanh.
 
@@ -464,24 +485,55 @@ Nút hành động chính (Primary Action CTA):
 
 ---
 
-# 4. HẬU KIỂM ĐỐI CHIẾU DESIGN SYSTEM & ĐỘ TƯƠNG PHẢN (SAU 3 VÒNG)
+# 4. TINH CHỈNH HOÀN THIỆN BẢN CHỐT (SAU 3 VÒNG)
 
-Sau khi đồng bộ màu và chữ theo `design1.png` / `design2.png`, nhóm đo lại màu thực tế trong các ảnh bản chốt và tính tỷ lệ tương phản theo công thức WCAG 2.1:
+Sau 3 vòng, toàn bộ ảnh `v1_after-1/2/3.png`, `v2_after.png`, `v3_after.png` được rà lại một lượt với 3 mục tiêu: lược bớt chữ, sửa lỗi xuống dòng và đồng bộ header. Các bảng dưới so sánh bản chốt trước và sau đợt rà này.
+
+## 4.1. Lược bớt chữ cho gọn, đỡ rối mắt
+
+| Màn | Trước | Sau |
+| :--- | :--- | :--- |
+| Trang chủ (Màn 1) | Lời chào 2 dòng "Chào Linh! Hôm nay bạn muốn ăn gì?"; tên quán dài | "Chào Linh! Trưa nay ăn gì?"; tên quán rút gọn ("Bún Đậu Mắm Tôm Cô Bông KTX", "Trà Sữa Đậm Vị KTX Khu B") |
+| Chi tiết quán (Màn 2) | Mỗi món có đoạn mô tả 2–3 dòng | Chỉ giữ ảnh, tên món và giá |
+| Theo dõi đơn (Màn 6) | Nhãn bản đồ "Đường Tạ Quang Bửu", "trong đợt phát trưa" | "Đ. Tạ Quang Bửu", "đợt trưa" |
+| Mã nhận (Màn 7) | Tiêu đề "Theo Dõi Đơn & Mã Nhận", nút "Khiếu nại / Báo sự cố" | Tiêu đề "Mã Nhận Đồ Ăn", nút "Báo sự cố" |
+| Khiếu nại (Màn 8) | Lý do sự cố dài ("Thiếu món hoặc thiếu topping", "Không bàn giao / Giao nhầm đơn"); nút "Gửi Yêu Cầu Khiếu Nại & Hoàn Tiền" | "Thiếu món / thiếu đồ", "Giao nhầm đơn / Không nhận được"; nút "Gửi Yêu Cầu Hoàn Tiền (10.000đ)" |
+| Lịch sử (Màn 10) | Header có thêm dòng phụ đề mô tả | Bỏ phụ đề, chỉ giữ tiêu đề |
+
+## 4.2. Sửa lỗi xuống dòng
+
+| Màn | Lỗi trước | Sau khi sửa |
+| :--- | :--- | :--- |
+| Trang chủ (Màn 1) | Lời chào rớt xuống dòng thứ 2 | Nằm trọn 1 dòng |
+| Empty State (Vòng 2) | Tab "Đang diễn ra (0)" tách 2 dòng; "Đang mở nhận đơn, chốt lúc 10:45" tách 2 dòng | Tab dạng segmented nằm trọn 1 hàng; "Đang nhận đơn, chốt lúc 10:45 • Đã gom: 24/30 suất" trên 1 dòng |
+
+## 4.3. Đồng bộ header
+
+| Màn | Trước | Sau |
+| :--- | :--- | :--- |
+| Theo dõi đơn, Mã nhận, Khiếu nại, Đánh giá, Lịch sử, Vòng 3 | Header trái kèm icon thương hiệu, có màn thêm phụ đề | Mẫu "màn chức năng": nút quay lại hình tròn · tiêu đề căn giữa · avatar |
+| Empty State & Error State (Vòng 2) | Header thương hiệu "KTX KHU B – Lịch sử đơn hàng" | Dùng chung header "Lịch Sử Đơn Hàng" như màn Lịch sử có đơn |
+| Chi tiết quán (Màn 2) | Header riêng "Chi Tiết Quán & Thực Đơn" | Dùng chung header "GIAO ĐẾN" với Trang chủ |
+
+---
+
+# 5. HẬU KIỂM ĐỐI CHIẾU DESIGN SYSTEM & ĐỘ TƯƠNG PHẢN
+
+Màu thực tế được đo trực tiếp trên các ảnh bản chốt và tính tỷ lệ tương phản theo công thức WCAG 2.1:
 
 | Cặp màu (chữ / nền) | Vị trí trong bản chốt | Tỷ lệ | Đánh giá |
 | :--- | :--- | :---: | :--- |
 | #111111 / #FFFFFF | Tiêu đề, giá tiền | ≈ 18.9:1 | ✅ Đạt AAA |
 | #757575 / #FFFFFF | Mô tả, chú thích | ≈ 4.6:1 | ✅ Đạt AA |
-| #FFFFFF / #FF5722 | Nhãn nút chính ở Vòng 1 và Vòng 3 | ≈ 3.2:1 | ⚠ Đạt AA cho **chữ lớn** (≥ 18.66px Bold) và cho thành phần giao diện (≥ 3:1); **chưa đạt 4.5:1** cho chữ thường |
-| #FFFFFF / #E64A19 | Nhãn nút ở Vòng 2 (Thử lại kết nối, Đặt món ngay) | ≈ 3.9:1 | ⚠ Như trên |
+| #FFFFFF / #FF5722 | Nhãn nút chính ở cả 3 vòng | ≈ 3.2:1 | ⚠ Đạt AA cho **chữ lớn** (≥ 18.66px Bold) và cho thành phần giao diện (≥ 3:1); **chưa đạt 4.5:1** cho chữ thường |
 | #FF5722 / #FFFFFF | Chữ cam (mã PIN, liên kết "Xem 18 quán ngon") | ≈ 3.2:1 | ✅ Mã PIN 26sp Bold đạt; ⚠ liên kết cỡ nhỏ chưa đạt |
-| #D32F2F / #FCE8E6 | Chữ banner "Mất kết nối mạng" | ≈ 4.2:1 | ⚠ Gần đạt, thiếu so với 4.5:1 |
+| #E11D48 / #FFF1F2 | Chữ banner "Mất kết nối mạng" | ≈ 4.3:1 | ⚠ Gần đạt, thiếu so với 4.5:1 |
 
 **Quyết định khi bàn giao Flutter:**
 1. **Giữ** Primary Orange #FF5722 làm màu nền nút chính để thống nhất nhận diện với Design System của cả nhóm.
 2. Nhãn chữ trắng trên nút cam bắt buộc dùng **Inter Bold ≥ 19px** để thuộc nhóm "chữ lớn" của WCAG (ngưỡng 3:1).
 3. Chữ cam #FF5722 chỉ dùng cho chữ lớn, icon hoặc viền; liên kết và nhãn nhỏ (14–16px) chuyển sang #111111 kèm gạch chân hoặc icon mũi tên cam.
-4. Banner lỗi tăng độ đậm chữ đỏ (tối hơn #D32F2F) để đạt ≥ 4.5:1 trên nền #FCE8E6. Error Red #F44336 của Design System chỉ dùng cho icon và viền, không dùng cho chữ nhỏ trên nền trắng (≈ 3.7:1).
+4. Banner lỗi tăng độ đậm chữ đỏ (tối hơn #E11D48) để đạt ≥ 4.5:1 trên nền #FFF1F2. Error Red #F44336 của Design System chỉ dùng cho icon và viền, không dùng cho chữ nhỏ trên nền trắng (≈ 3.7:1).
 5. Các khoảng cách lẻ do AI sinh ra (12dp, 14dp) được làm tròn về token 8 / 16 / 24dp.
 
 ---
